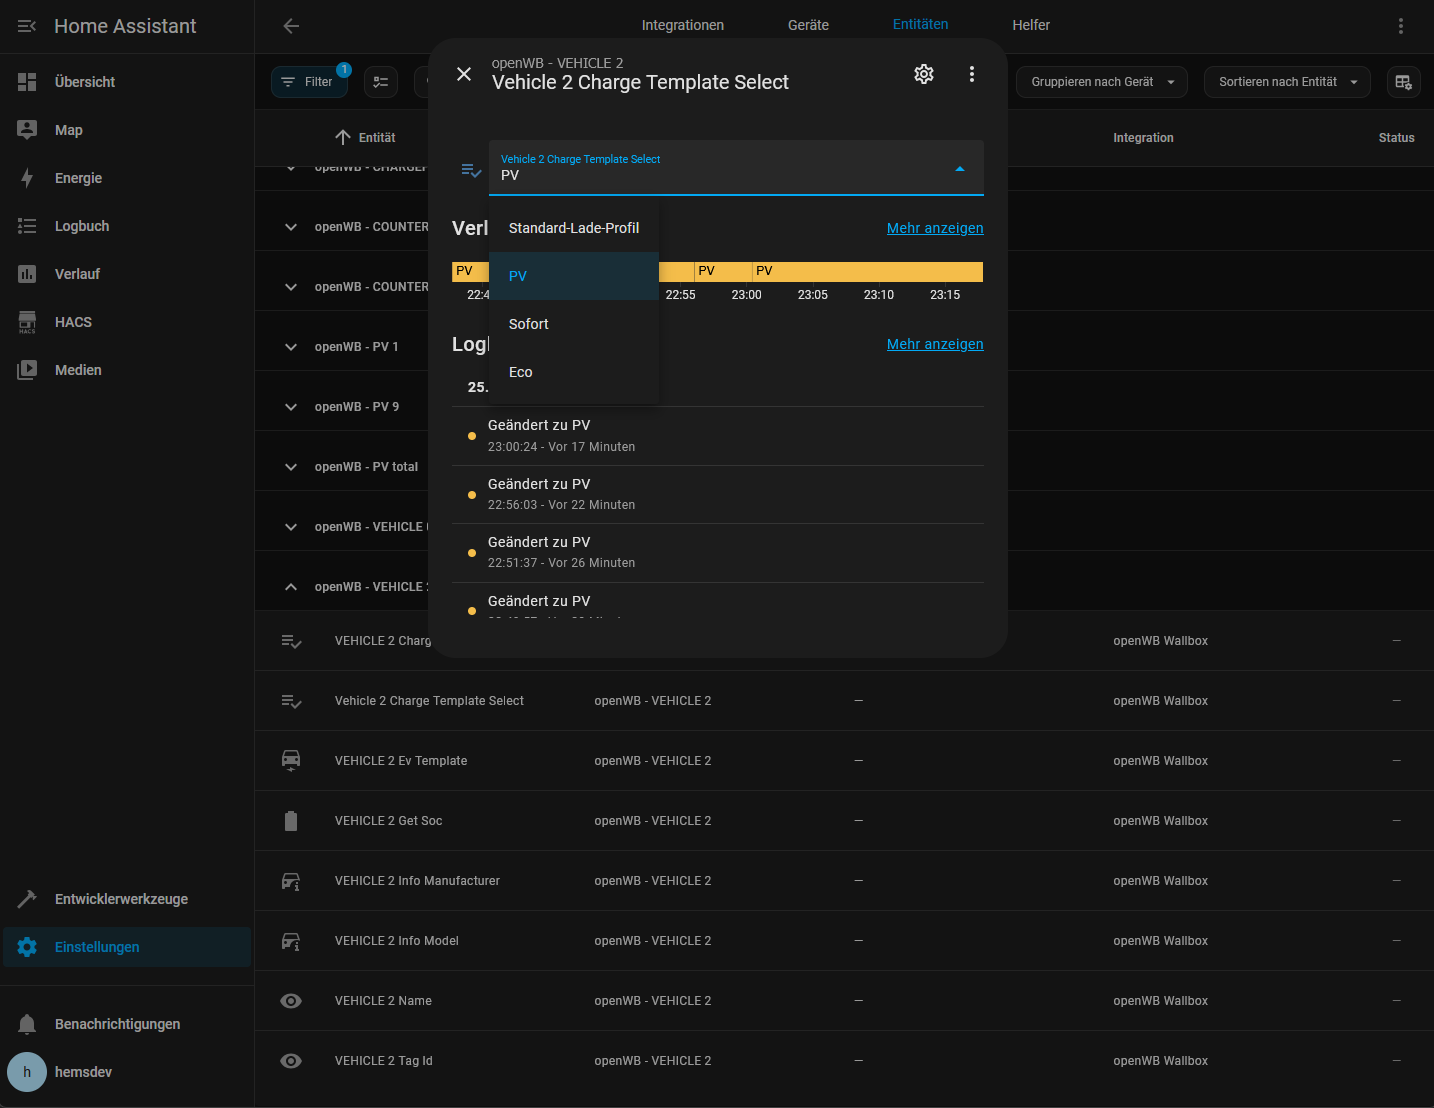
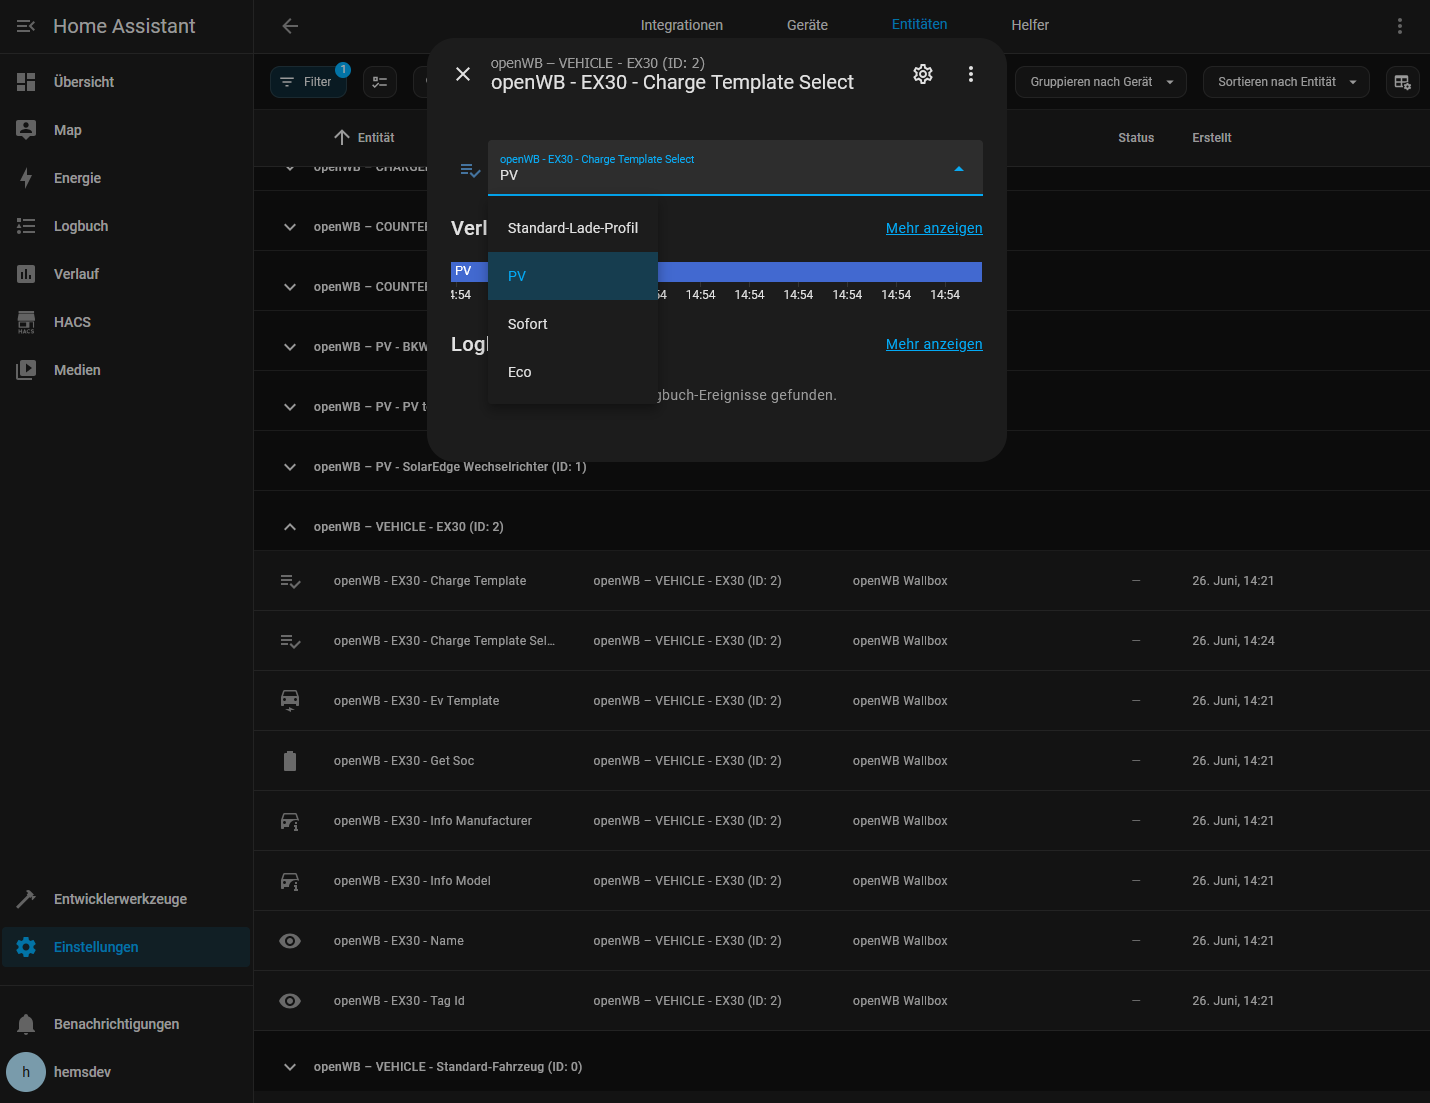
Update README.md

diff --git a/README.md b/README.md
@@ -51,6 +51,7 @@ These templates are displayed as human-readable text (e.g., `Fast Charge`, `Over
 - [x] Support for vehicle templates (`charge_template`, `ev_template`)
 - [x] Chargepoint configuration mapped to individual entities
 - [x] Select entities for choosing charge templates
+- [x] Device naming according to openWB configuration
 
 ### Planned:
 - [ ] Extended control of openWB via `set/` topics
@@ -73,16 +74,23 @@ To enable MQTT:
 
 Example Mosquitto Bridge Config (not openWB MQTT Bridge) to subscribe all openWB/# topics
 ```
-#################################################################
-# openWB MQTT Bridge
-#################################################################
-connection openwb-bridge
-address <openwb-ip>:1883
-clientid mosquitto-openwb-bridge
-try_private false
-cleansession true
-start_type automatic
-topic openWB/# both 2
+    #################################################################
+    # MQTT Bridge to openWB
+    #################################################################
+
+    connection openwb-bridge
+    address 10.10.10.85:1883
+    clientid mosquitto-openwb-bridge
+    try_private false
+    cleansession true
+    start_type automatic
+
+    # Optional user/password
+    # username openwbuser
+    # password geheim
+
+    topic openWB/# in 2
+    topic openWB/set/# out 2
 ```
 
 ---
@@ -162,6 +170,7 @@ Diese Vorlagen werden korrekt als lesbarer Text angezeigt (z. B. `Schnellladen
 - [x] Unterstützung für Fahrzeug-Templates (`charge_template`, `ev_template`)
 - [x] Ladepunkt-Konfiguration als Entitäten
 - [x] Select-Entitäten für Ladeprofile
+- [x] Benennung von Home Assistant Geräten nach openWB Konfiguration
 
 ### Geplant:
 - [ ] Weitere Steuerung von openWB via `set/`-Topics
@@ -184,16 +193,23 @@ So aktivieren Sie MQTT:
 
 Beispiel Mosquitto Bridge Config (nicht openWB MQTT Bridge) um alle openWB/# Topics zu abonnieren
 ```
-#################################################################
-# openWB MQTT Bridge
-#################################################################
-connection openwb-bridge
-address <openwb-ip>:1883
-clientid mosquitto-openwb-bridge
-try_private false
-cleansession true
-start_type automatic
-topic openWB/# both 2
+    #################################################################
+    # MQTT Bridge to openWB
+    #################################################################
+
+    connection openwb-bridge
+    address 10.10.10.85:1883
+    clientid mosquitto-openwb-bridge
+    try_private false
+    cleansession true
+    start_type automatic
+
+    ## Optional: Benutzer / Passwort
+    # username openwbuser
+    # password geheim
+
+    topic openWB/# in 2
+    topic openWB/set/# out 2
 ```
 
 ---
